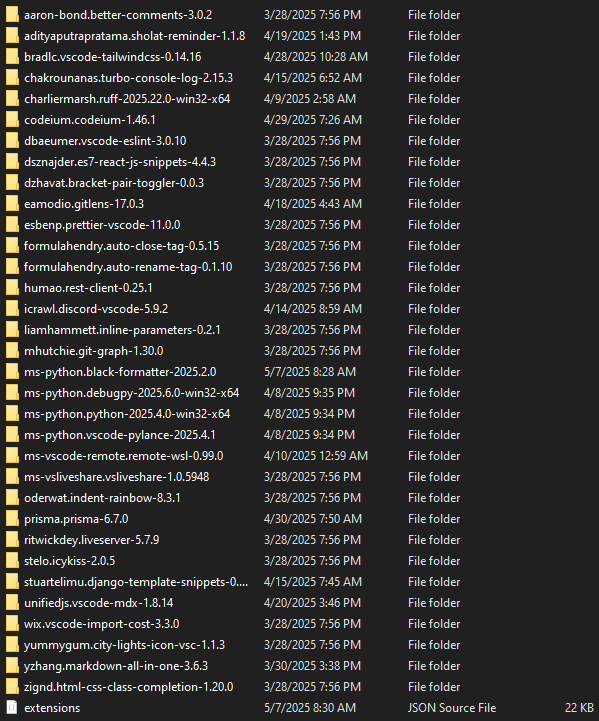
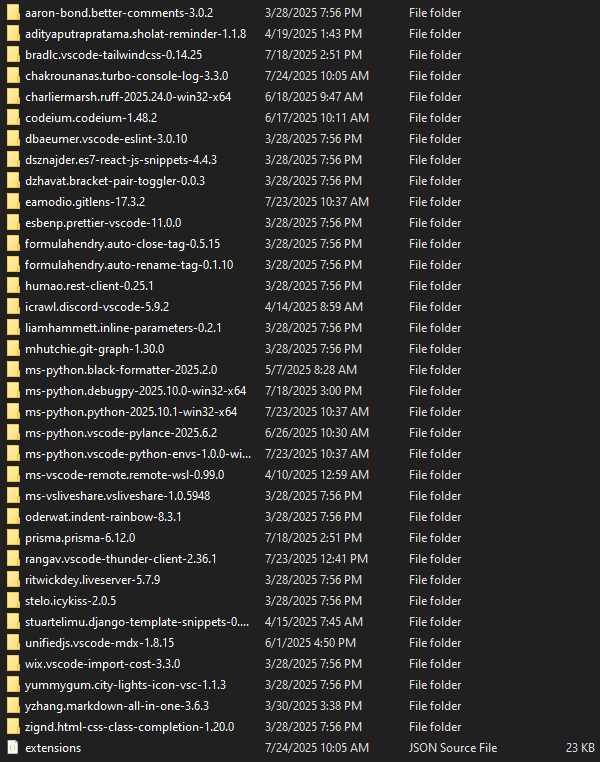
chore: update extensions & settings

Changed region(s): [[0.0, 0.0, 0.6311, 1.0], [0.6611, 0.0, 0.8414, 1.0], [0.9316, 0.9764, 0.9917, 1.0]]

diff --git a/settings_2025.ts b/settings_2025.ts
@@ -2,6 +2,15 @@
   "[javascript]": {
     "editor.defaultFormatter": "esbenp.prettier-vscode"
   },
+  "[typescript]": {
+    "editor.defaultFormatter": "esbenp.prettier-vscode"
+  },
+  "[javascriptreact]": {
+    "editor.defaultFormatter": "esbenp.prettier-vscode"
+  },
+  "[typescriptreact]": {
+    "editor.defaultFormatter": "esbenp.prettier-vscode"
+  },
 
   // format code on save
   "editor.formatOnSave": true,
@@ -18,7 +27,6 @@
   "editor.fontFamily": "JetBrains Mono",
   "editor.fontLigatures": true,
   "editor.bracketPairColorization.enabled": true,
-  "workbench.colorTheme": "Default Light Modern",
   "git.autofetch": true,
   "git.enableSmartCommit": true,
   "emmet.triggerExpansionOnTab": true,
@@ -69,7 +77,6 @@
   "terminal.integrated.defaultProfile.windows": "Git Bash",
   "remote.WSL.fileWatcher.polling": true,
   "security.allowedUNCHosts": ["wsl.localhost"],
-  "svelte.enable-ts-plugin": true,
   "files.associations": {
     "*.css": "tailwindcss"
   },
@@ -90,6 +97,10 @@
     "**/**.ts": "${dirname}/${filename}", // route.ts
     "**/**.tsx": "${dirname}/${filename}" // layout.tsx, page.tsx, template.tsx
   },
+  "terminal.integrated.defaultProfile.linux": "zsh",
+  "security.workspace.trust.untrustedFiles": "open",
+  "remote.autoForwardPortsSource": "hybrid",
+  "workbench.colorTheme": "Default Light Modern"
 
   // apc
   // "apc.activityBar": {
